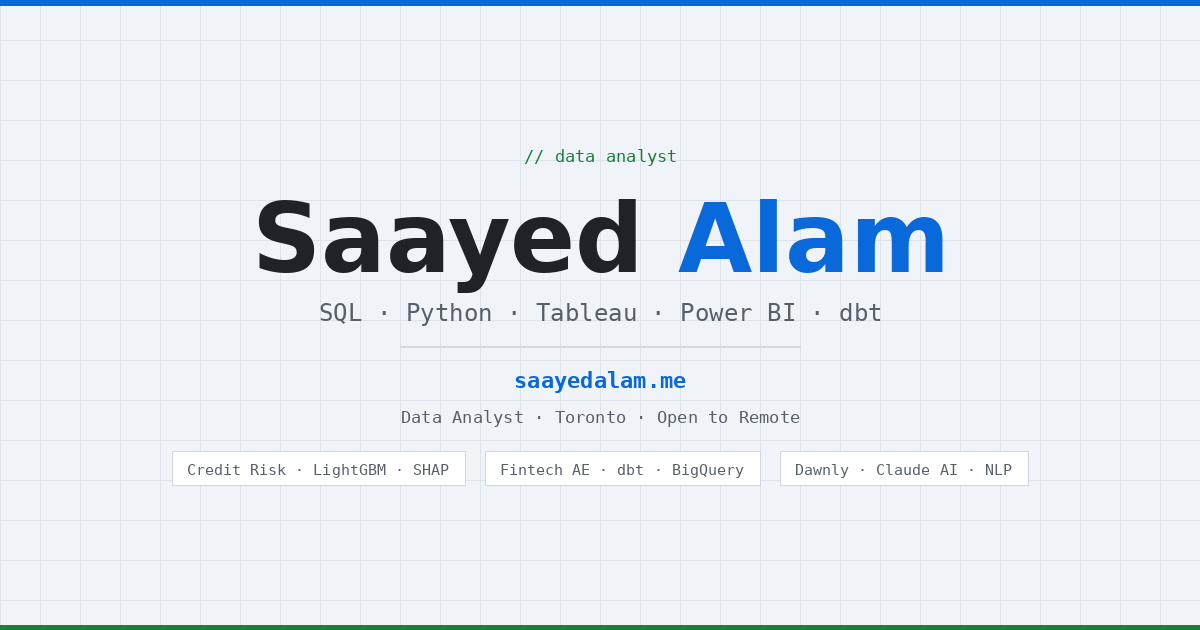
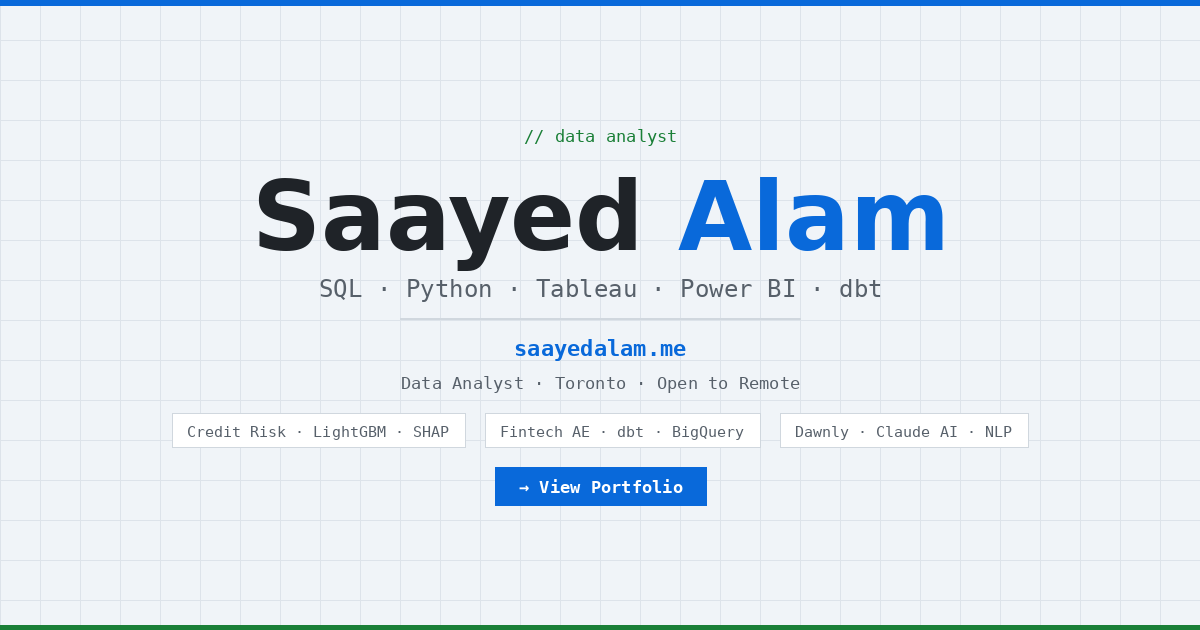
fixed some errora

Changed region(s): [[0.2158, 0.2111, 0.8017, 0.5127], [0.1542, 0.5429, 0.8633, 0.8143]]

diff --git a/index.html b/index.html
@@ -7,7 +7,7 @@
 <meta name="viewport" content="width=device-width, initial-scale=1.0" />
 <title>Saayed Alam — Data Analyst</title>
 <meta name="description" content="Saayed Alam — Data Analyst · SQL · Python · Tableau. Based in Toronto, open to remote. Previously at Ipsos serving Visa and Microsoft." />
-<meta property="og:title" content="Saayed Alam — Data Analyst · SQL · Python · Tableau · Toronto" />
+<meta property="og:title" content="Saayed Alam — Data Analyst · SQL · Python · Tableau" />
 <meta property="og:description" content="Data Analyst · SQL · Python · Tableau. Formerly at Ipsos. Visa and Microsoft client work. Based in Toronto, open to remote." />
 <meta property="og:type" content="website" />
 <meta property="og:url" content="https://saayedalam.me" />
